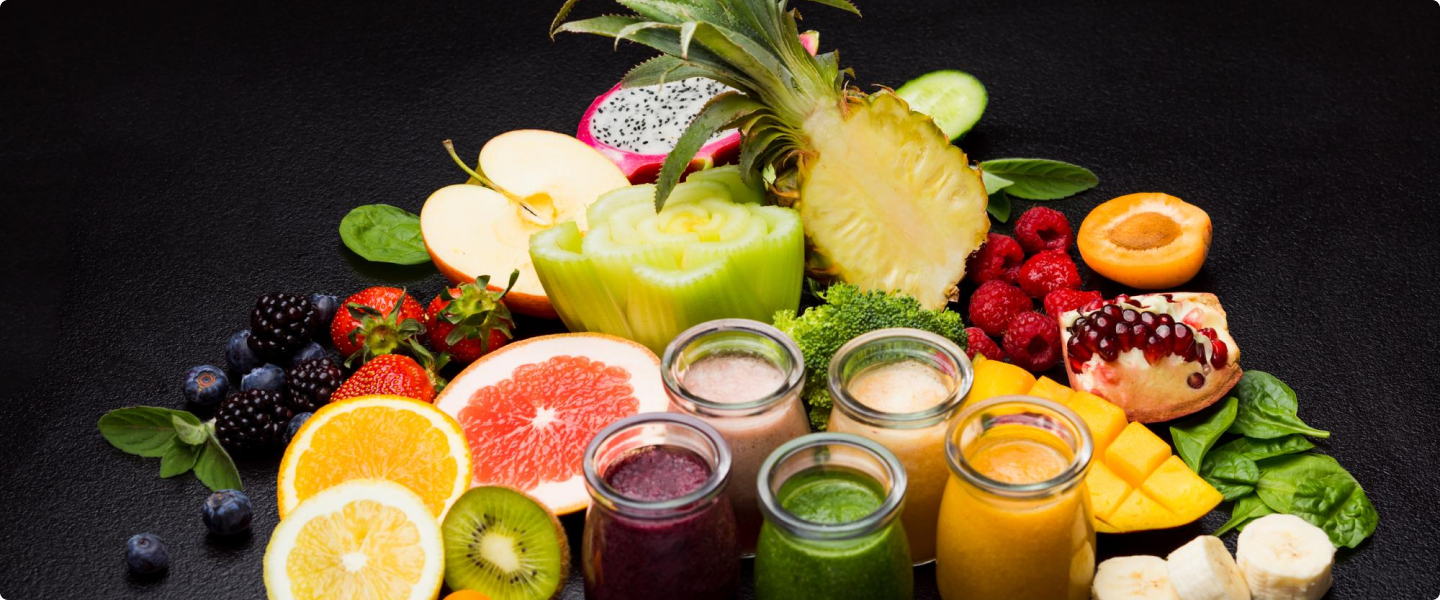
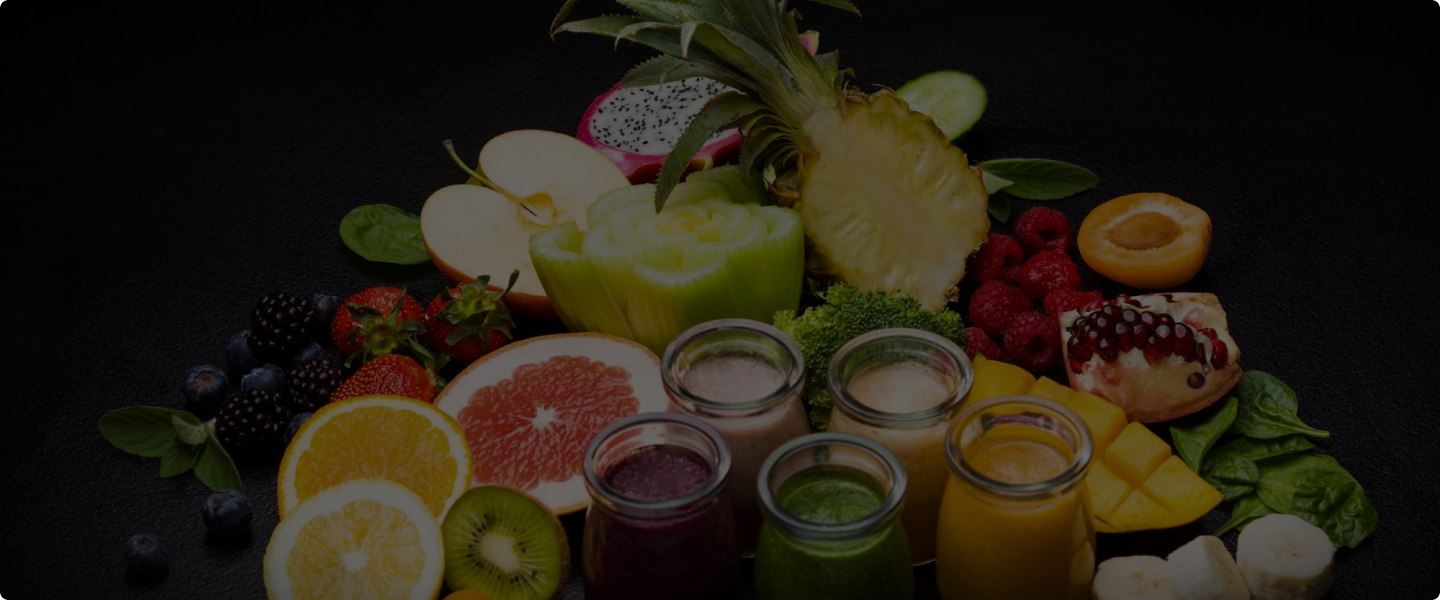
div added

diff --git a/index.html b/index.html
@@ -66,7 +66,9 @@
         </nav>
 
         <!-- banner -->
-        <div>
+        <div class="relative">
+
+            <div>
             <div class="carousel w-full">
                 <!-- slide 1 -->
                 <div id="slide1" class="carousel-item relative w-full pt-0">
@@ -91,73 +93,79 @@
                 </div> 
 
                 <!-- slide 2 -->
-                <div id="slide2" class="carousel-item relative w-full">
-
-                    <div class="hero min-h-screen" style="background-image: url(https://img.daisyui.com/images/stock/photo-1507358522600-9f71e620c44e.jpg);">
-                        <div class="hero-overlay bg-opacity-60"></div>
-                        <div class="hero-content text-center text-neutral-content">
-                          <div class="max-w-md">
-                            <h1 class="mb-5 text-5xl font-bold">Hello there</h1>
-                            <p class="mb-5">Provident cupiditate voluptatem et in. Quaerat fugiat ut assumenda excepturi exercitationem quasi. In deleniti eaque aut repudiandae et a id nisi.</p>
-                            <button class="btn btn-primary">Get Started</button>
-                          </div>
+                <div id="slide2" class="carousel-item relative w-full pt-0">
+                  <div class="hero h-[430px]" style="background-image: url(images/banner2.png);">
+                     <!--image should have looked brighter  -->
+                      <div class=" bg-opacity-40"></div>
+                      <div class="hero-content text-center text-neutral-content pt-0 mt-0 ">
+                        <div class="max-w-md">
+                          <h1 class="mb-5 text-5xl font-extrabold">Exotic tastes at your doorstep</h1>
+                          <!-- can't take the image in top -->
+                          <p class="mb-5">We supply highly quality organic products</p>
+                          <button class="btn btn-error text-white">Shop Now</button>
                         </div>
                       </div>
-
-                  <div class="absolute flex justify-between transform -translate-y-1/2 left-5 right-5 top-1/2">
-                    <a href="#slide1" class="btn btn-circle">❮</a> 
-                    <a href="#slide3" class="btn btn-circle">❯</a>
-                  </div>
-                </div> 
-
-                <!-- slide 3 -->
-                <div id="slide3" class="carousel-item relative w-full">
-
-                    <div class="hero min-h-screen" style="background-image: url(https://img.daisyui.com/images/stock/photo-1507358522600-9f71e620c44e.jpg);">
-                        <div class="hero-overlay bg-opacity-60"></div>
-                        <div class="hero-content text-center text-neutral-content">
-                          <div class="max-w-md">
-                            <h1 class="mb-5 text-5xl font-bold">Hello there</h1>
-                            <p class="mb-5">Provident cupiditate voluptatem et in. Quaerat fugiat ut assumenda excepturi exercitationem quasi. In deleniti eaque aut repudiandae et a id nisi.</p>
-                            <button class="btn btn-primary">Get Started</button>
-                          </div>
-                        </div>
-                      </div>
-
-                  <div class="absolute flex justify-between transform -translate-y-1/2 left-5 right-5 top-1/2">
-                    <a href="#slide2" class="btn btn-circle">❮</a> 
-                    <a href="#slide4" class="btn btn-circle">❯</a>
-                  </div>
-                </div> 
-
-                <!-- slide 4 -->
-                <div id="slide4" class="carousel-item relative w-full">
-
-                    <div class="hero min-h-screen" style="background-image: url(https://img.daisyui.com/images/stock/photo-1507358522600-9f71e620c44e.jpg);">
-                        <div class="hero-overlay bg-opacity-60"></div>
-                        <div class="hero-content text-center text-neutral-content">
-                          <div class="max-w-md">
-                            <h1 class="mb-5 text-5xl font-bold">Hello there</h1>
-                            <p class="mb-5">Provident cupiditate voluptatem et in. Quaerat fugiat ut assumenda excepturi exercitationem quasi. In deleniti eaque aut repudiandae et a id nisi.</p>
-                            <button class="btn btn-primary">Get Started</button>
-                          </div>
-                        </div>
-                      </div>
-
-                  <div class="absolute flex justify-between transform -translate-y-1/2 left-5 right-5 top-1/2">
-                    <a href="#slide3" class="btn btn-circle">❮</a> 
-                    <a href="#slide1" class="btn btn-circle">❯</a>
-                  </div>
+                    </div>
+                <div class="absolute flex justify-between transform -translate-y-1/2 left-5 right-5 top-[215px]">
+                  <a href="#slide1" class="btn btn-circle bg-black text-white border-none">❮</a> 
+                  <a href="#slide3" class="btn btn-circle bg-black text-white border-none">❯</a>
                 </div>
+                </div> 
+
+                 <!-- slide 3 -->
+                <div id="slide3" class="carousel-item relative w-full pt-0">
+                  <div class="hero h-[430px]" style="background-image: url(images/banner3.png);">
+                     <!--image should have looked brighter  -->
+                      <div class=" bg-opacity-40"></div>
+                      <div class="hero-content text-center text-neutral-content pt-0 mt-0 ">
+                        <div class="max-w-md">
+                          <h1 class="mb-5 text-5xl font-extrabold">Exotic tastes at your doorstep</h1>
+                          <!-- can't take the image in top -->
+                          <p class="mb-5">We supply highly quality organic products</p>
+                          <button class="btn btn-error text-white">Shop Now</button>
+                        </div>
+                      </div>
+                    </div>
+                <div class="absolute flex justify-between transform -translate-y-1/2 left-5 right-5 top-[215px]">
+                  <a href="#slide2" class="btn btn-circle bg-black text-white border-none">❮</a> 
+                  <a href="#slide4" class="btn btn-circle bg-black text-white border-none">❯</a>
+                </div>
+                </div> 
+                
+                <!-- slide 4 -->
+                <div id="slide4" class="carousel-item relative w-full pt-0">
+                  <div class="hero h-[430px]" style="background-image: url(images/banner4.png);">
+                     <!--image should have looked brighter  -->
+                      <div class=" bg-opacity-40"></div>
+                      <div class="hero-content text-center text-neutral-content pt-0 mt-0 ">
+                        <div class="max-w-md">
+                          <h1 class="mb-5 text-5xl font-extrabold">Exotic tastes at your doorstep</h1>
+                          <!-- can't take the image in top -->
+                          <p class="mb-5">We supply highly quality organic products</p>
+                          <button class="btn btn-error text-white">Shop Now</button>
+                        </div>
+                      </div>
+                    </div>
+                <div class="absolute flex justify-between transform -translate-y-1/2 left-5 right-5 top-[215px]">
+                  <a href="#slide3" class="btn btn-circle bg-black text-white border-none">❮</a> 
+                  <a href="#slide1" class="btn btn-circle bg-black text-white border-none">❯</a>
+                </div>
+                </div> 
 
             </div>
-        </div>
 
-        
+            </div>
+
+            <!-- small box -->
+            <div class="absolute hidden lg:flex w-[82%] bg-white h-[150px] -bottom-20 left-24 shadow-lg rounded-lg">
+
+            </div>
+
+        </div>
 
     </header>
     
-    <main class="w-4/5 mx-auto">
+    <main class="lg:w-4/5 mx-auto mt-40">
 
     </main>
 
